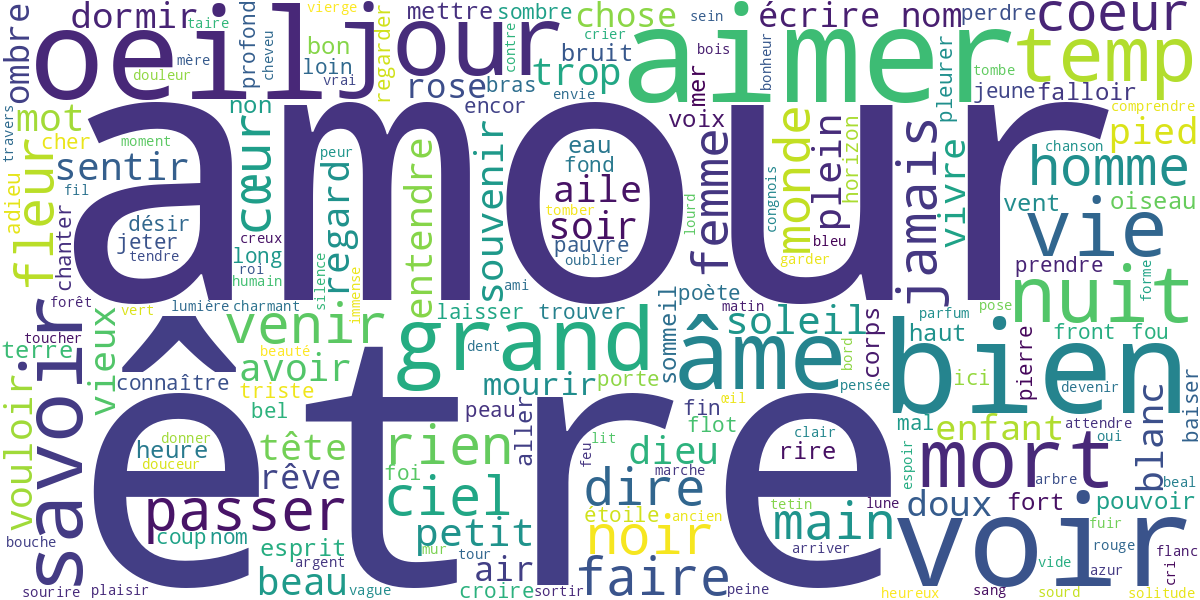
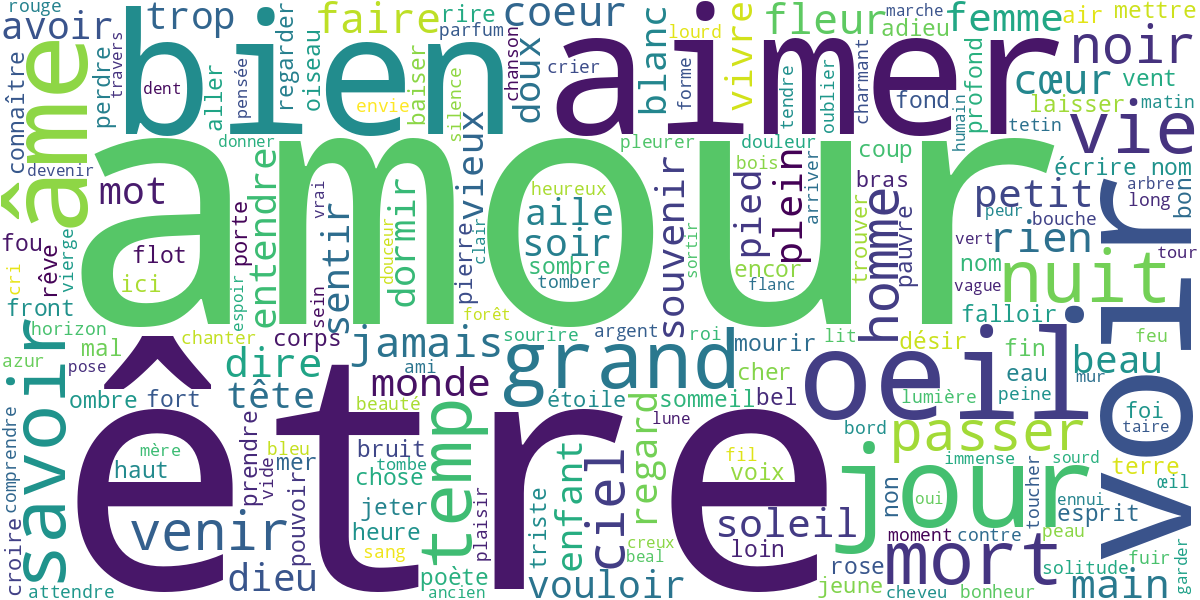
novo bertopic

diff --git a/modelagemTopicos/bertopic3.py b/modelagemTopicos/bertopic3.py
@@ -37,7 +37,7 @@ COLUNA_POEMAS = "original_poem"  # "original_poem", "translated_poem", "translat
 
 # Definição dos idiomas de origem e destino para filtrar o CSV
 IDIOMA_ORIGEM = "fr_XX"  #  "fr_XX", "pt_XX", "en_XX"
-IDIOMA_DESTINO = "pt_XX" #  "fr_XX", "pt_XX", "en_XX"
+IDIOMA_DESTINO = "en_XX" #  "fr_XX", "pt_XX", "en_XX"
 
 # Idioma para o pré-processamento (NLTK e spaCy)
 IDIOMA_PROC = "fr_XX"
